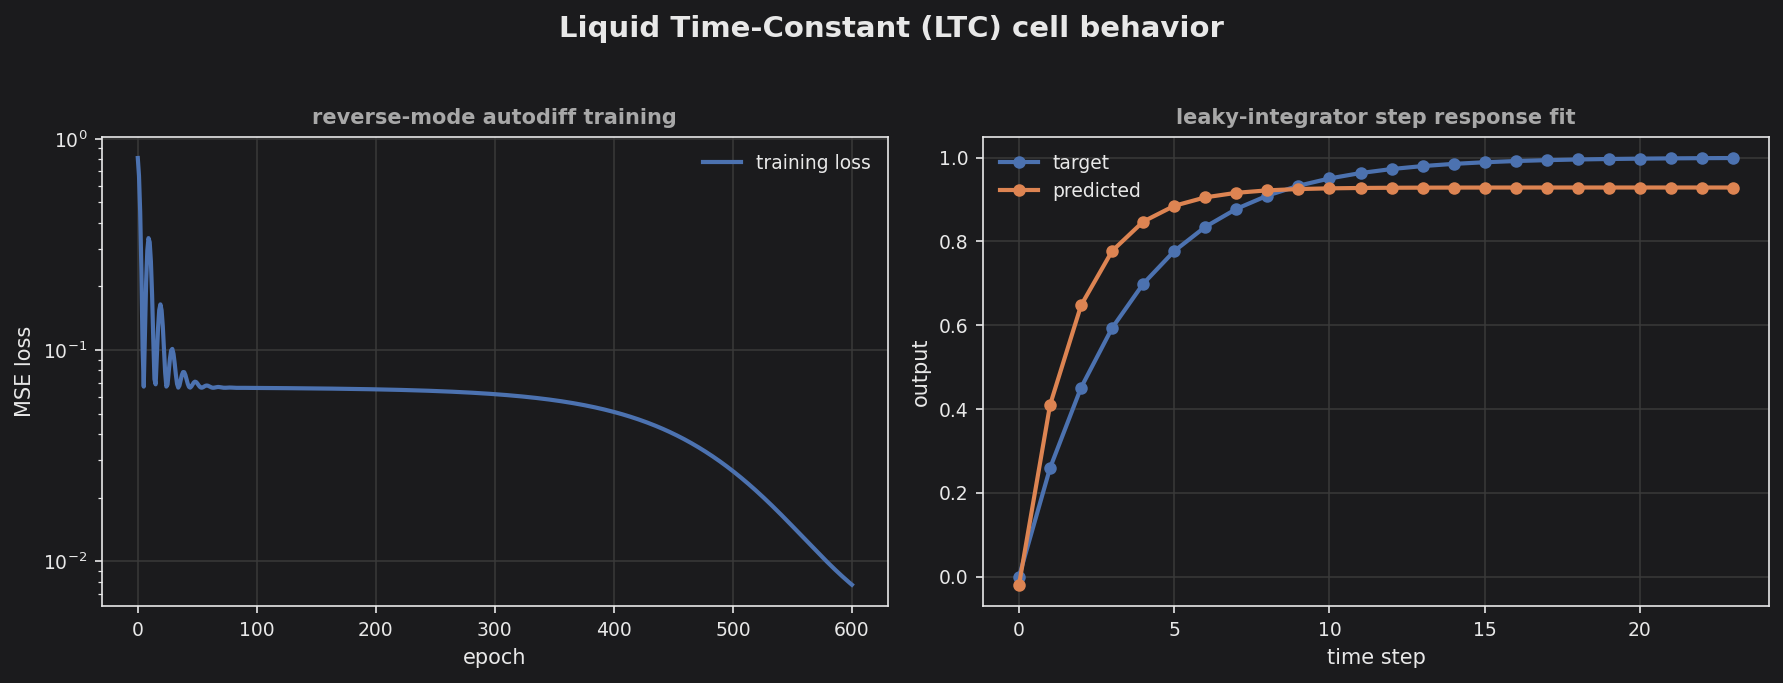
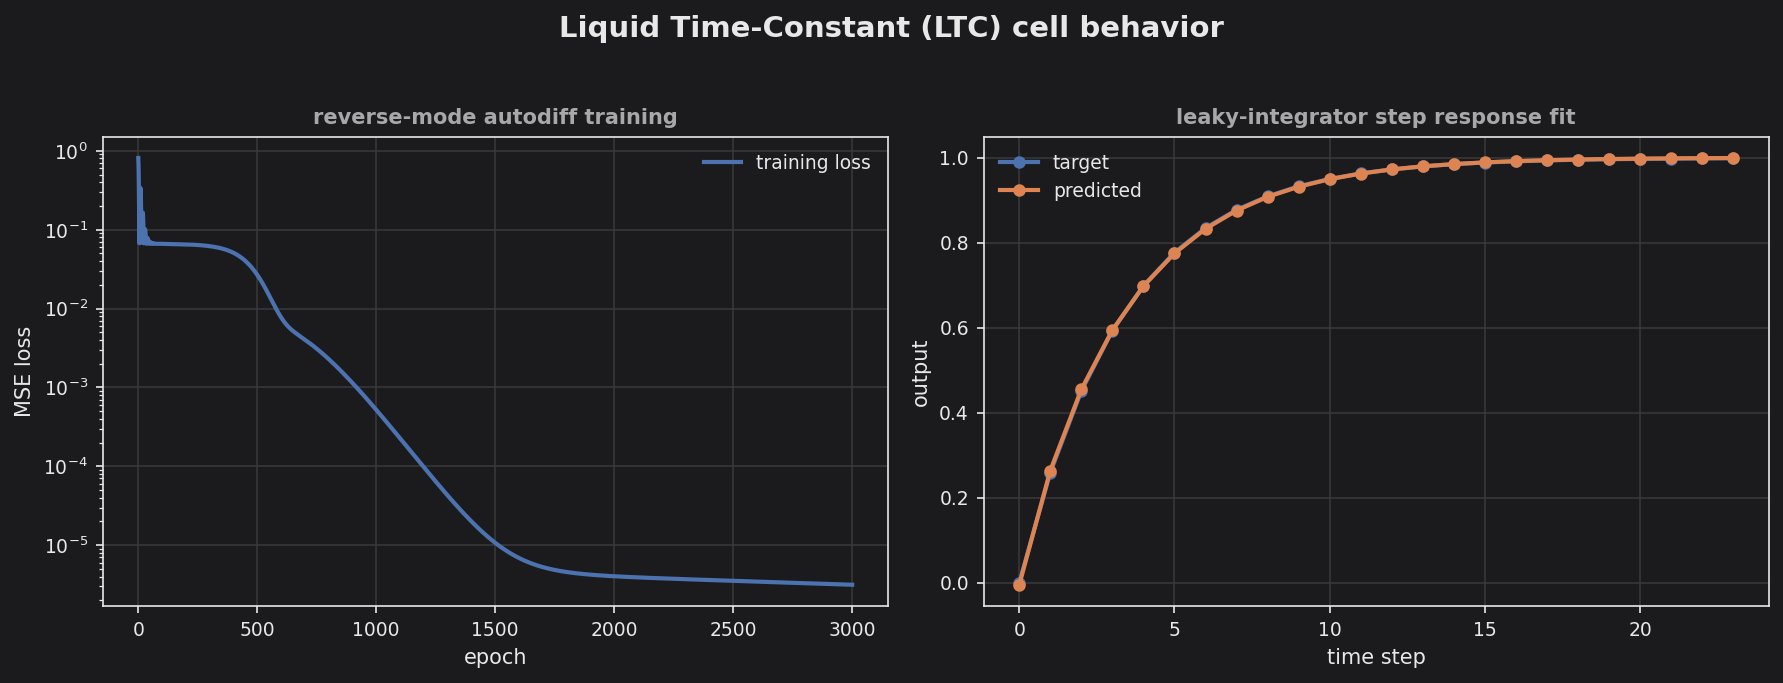
Improve LTC example fit: train to convergence (600 -> 3000 epochs)
The LTC demo stopped at 600 epochs while the loss was still dropping steeply, so
the predicted step response saturated low (~0.93) and rose too fast vs the
target's approach to 1.0. Train 3000 epochs (NST=6 already); the loss now
converges to ~3e-6 (was ~8e-3) and the prediction overlays the leaky-integrator
target across the full rise and asymptote. Re-rendered the dark docs plot.

diff --git a/examples/ltc_sequence/ltc_sequence.cpp b/examples/ltc_sequence/ltc_sequence.cpp
@@ -146,7 +146,7 @@ int main()
 
     // Reverse-mode training: gradient w.r.t. all NP params in one backward pass.
     const double lr = 0.05, momentum = 0.9;
-    const int epochs = 600;
+    const int epochs = 3000;
     double loss0 = task.loss<double>(params);
     std::printf("LTC cell: NumParams=%zu (cell=%zu + readout=%zu), seq=%zu\n",
                 Task::NP, Task::Cell::NumParams, Task::NReadout, Task::L);